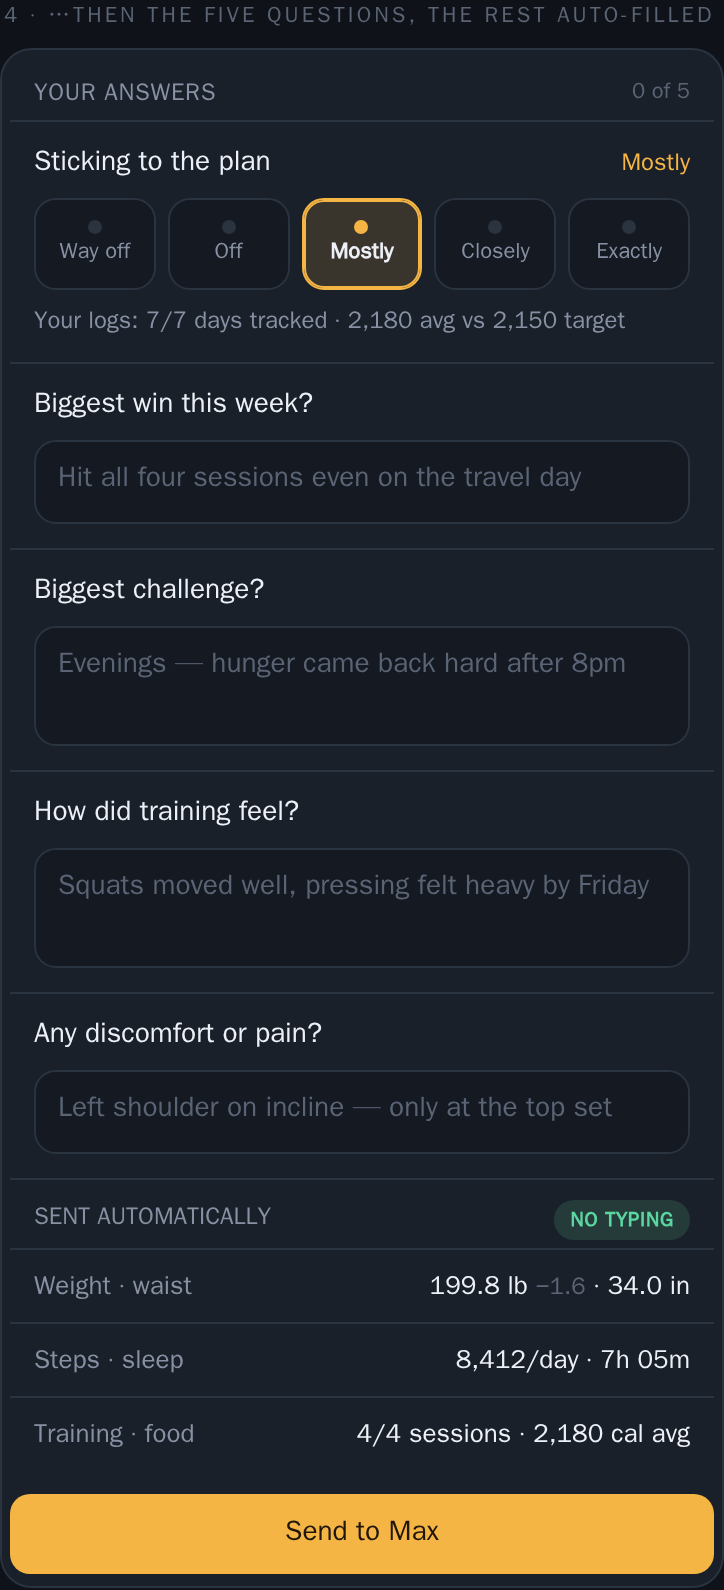
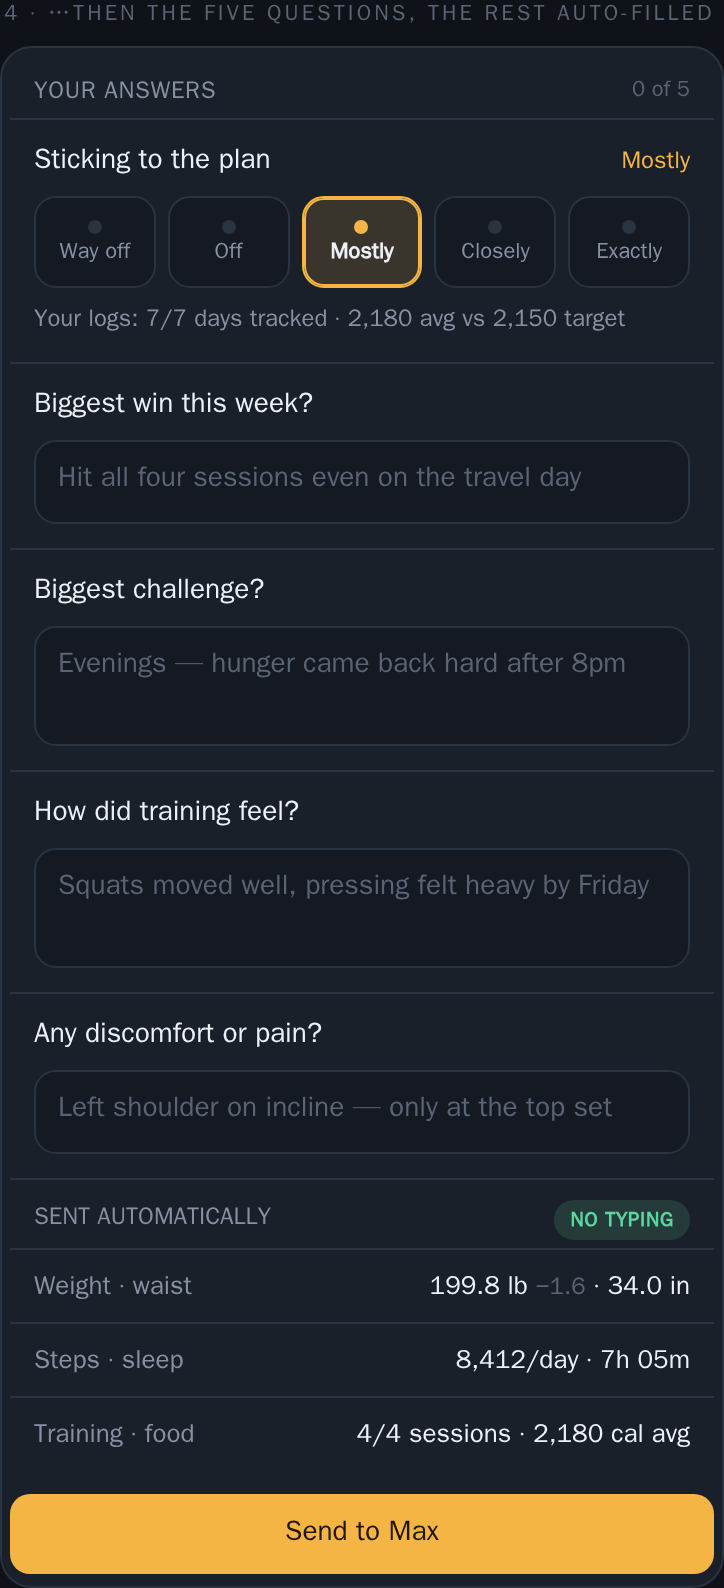
Weekly check-in: top-of-Home persistent card (replaces the photo prompt), escalating due states, explicit skip + confirm, editable after send, history on Progress, four poses
Claude-Session: https://claude.ai/code/session_013vTJLyt3fzzCxkgRaB7ajH

diff --git a/features/daily-subjective-ratings/mockups/v3.html b/features/daily-subjective-ratings/mockups/v3.html
@@ -1,0 +1,99 @@
+<!doctype html><html lang="en"><head><meta charset="utf-8">
+<meta name="viewport" content="width=device-width,initial-scale=1"><title>v3</title>
+<link rel="stylesheet" href="app.css">
+<style>
+body{background:var(--bg);color:var(--text);font-family:var(--sans);margin:0;padding:14px}
+.frame{max-width:420px;margin:0 auto 24px}
+.mocklabel{font-size:11px;letter-spacing:.14em;text-transform:uppercase;color:var(--faint);font-weight:700;margin:0 0 8px 2px}
+.wkcard{padding:14px}
+.wkrow{display:flex;align-items:center;gap:12px}
+.wkic{width:38px;height:38px;border-radius:11px;display:flex;align-items:center;justify-content:center;font-size:18px;flex:none}
+.due   .wkic{background:rgba(245,181,68,.16)}
+.late  .wkic{background:rgba(242,109,91,.16)}
+.donec .wkic{background:rgba(92,214,160,.16)}
+.wkt{flex:1;min-width:0}
+.wkt b{display:block;font-size:15px;font-weight:700}
+.wkt span{display:block;font-size:12.5px;margin-top:2px}
+.due   .wkt span{color:var(--accent);font-weight:700}
+.late  .wkt span{color:#F26D5B;font-weight:700}
+.donec .wkt span{color:var(--faint)}
+.chev{color:var(--faint);font-size:20px;font-weight:700;flex:none}
+.wkcard.due{border-color:var(--accent)}
+.wkcard.late{border-color:#F26D5B}
+.sub{font-size:12px;color:var(--faint);margin-top:9px;line-height:1.45}
+/* skip + confirm */
+.skiprow{border-top:1px solid var(--line);margin-top:14px;padding-top:12px;text-align:center}
+.skiplink{background:none;border:none;color:var(--faint);font-size:13px;font-family:var(--sans);
+  text-decoration:underline;text-underline-offset:3px;cursor:pointer;padding:6px}
+.confirm{background:var(--bg2);border:1px solid var(--line);border-radius:14px;padding:14px;margin-top:12px}
+.confirm b{display:block;font-size:14px;margin-bottom:5px}
+.confirm p{margin:0 0 12px;font-size:13px;color:var(--muted);line-height:1.5}
+.cbtns{display:flex;gap:8px}
+.cbtns .wl-btn{flex:1}
+/* history list */
+.hrow{display:flex;align-items:center;gap:11px;border-top:1px solid var(--line);padding:11px 2px}
+.hrow .hd{flex:1;min-width:0}
+.hrow .hd b{display:block;font-size:14px;font-weight:600}
+.hrow .hd span{display:block;font-size:12px;color:var(--faint);margin-top:2px}
+.tag{font-size:10px;font-weight:800;letter-spacing:.04em;text-transform:uppercase;padding:3px 8px;border-radius:99px;flex:none}
+.tsent{background:rgba(92,214,160,.15);color:#5CD6A0}
+.tskip{background:var(--bg2);color:var(--faint)}
+.edit{background:none;border:1px solid var(--line);border-radius:9px;color:var(--muted);font-size:12px;
+  font-family:var(--sans);padding:5px 10px;cursor:pointer;flex:none}
+</style></head><body>
+
+<div class="frame">
+  <p class="mocklabel">1 · Top of Home — where progress photos sits today</p>
+
+  <div class="wl-card wkcard due" style="margin-bottom:10px">
+    <div class="wkrow"><span class="wkic">📋</span><span class="wkt"><b>Weekly check-in</b><span>Due today · Monday</span></span><span class="chev">›</span></div>
+    <div class="sub">5 questions + this week’s 4 photos. Weight, steps, sleep, training, food and your daily ratings are already filled in.</div>
+  </div>
+
+  <div class="wl-card wkcard late" style="margin-bottom:10px">
+    <div class="wkrow"><span class="wkic">📋</span><span class="wkt"><b>Weekly check-in</b><span>Due yesterday</span></span><span class="chev">›</span></div>
+    <div class="sub">Still open — it stays here until you send or skip it.</div>
+  </div>
+
+  <div class="wl-card wkcard late" style="margin-bottom:10px">
+    <div class="wkrow"><span class="wkic">📋</span><span class="wkt"><b>Weekly check-in</b><span>Due Monday · 4 days late</span></span><span class="chev">›</span></div>
+    <div class="sub">Still open — it stays here until you send or skip it.</div>
+  </div>
+
+  <div class="wl-card wkcard late" style="margin-bottom:10px">
+    <div class="wkrow"><span class="wkic">📋</span><span class="wkt"><b>Weekly check-in</b><span>2 weeks open · Aug 4 and Jul 28</span></span><span class="chev">›</span></div>
+    <div class="sub">The newest week opens first; last week is underneath it.</div>
+  </div>
+
+  <div class="wl-card wkcard donec">
+    <div class="wkrow"><span class="wkic">✓</span><span class="wkt"><b>Weekly check-in</b><span>Sent Monday 8:12 AM · tap to edit</span></span><span class="chev">›</span></div>
+  </div>
+</div>
+
+<div class="frame">
+  <p class="mocklabel">2 · Bottom of the form — skip, and the confirm</p>
+  <div class="wl-card">
+    <div class="wl-card-head"><span>Weekly check-in</span><span class="wl-count">Aug 4</span></div>
+    <div class="sub" style="margin-top:2px">…biggest win, challenge, training, discomfort above…</div>
+    <button class="wl-btn wl-btn-primary wl-full" style="margin-top:14px">Send to Max</button>
+    <div class="skiprow"><button class="skiplink">Skip this week’s check-in</button></div>
+    <div class="confirm">
+      <b>Skip this check-in?</b>
+      <p>Nothing is sent to Max for the week of Aug 4 — no photos, no answers. Your daily logs still go through as normal. You can undo this until next Monday.</p>
+      <div class="cbtns"><button class="wl-btn wl-btn-ghost">Keep it open</button><button class="wl-btn wl-btn-danger">Skip the week</button></div>
+    </div>
+  </div>
+</div>
+
+<div class="frame">
+  <p class="mocklabel">3 · Progress tab — history, editable</p>
+  <div class="wl-card">
+    <div class="wl-card-head"><span>Weekly check-ins</span><span class="wl-count">last 6</span></div>
+    <div class="hrow"><span class="hd"><b>Aug 4</b><span>Sent 8:12 AM · 5 answers · 4 photos</span></span><span class="tag tsent">Sent</span><button class="edit">Edit</button></div>
+    <div class="hrow"><span class="hd"><b>Jul 28</b><span>Sent Tue 7:40 PM · 4 answers · 4 photos</span></span><span class="tag tsent">Sent</span><button class="edit">Edit</button></div>
+    <div class="hrow"><span class="hd"><b>Jul 21</b><span>Skipped — travel week</span></span><span class="tag tskip">Skipped</span><button class="edit">Open</button></div>
+    <div class="hrow"><span class="hd"><b>Jul 14</b><span>Sent 9:02 AM · 5 answers · 4 photos</span></span><span class="tag tsent">Sent</span><button class="edit">Edit</button></div>
+    <div class="wl-hint" style="margin-top:10px">Editing re-sends the corrected form and marks it updated for Max — the original stays in the record.</div>
+  </div>
+</div>
+</body></html>

diff --git a/features/daily-subjective-ratings/SPEC.md b/features/daily-subjective-ratings/SPEC.md
@@ -149,21 +149,56 @@ of those answers; the athlete should never retype them. This feature adds
 the missing piece: **a form for the questions only the athlete can answer**,
 with everything else auto-filled.
 
-## Entry point
+## Entry point — top of Home, NOT the daily check-in card
 
-A **Weekly check-in** button inside the daily check-in card, shown on the
-check-in day (default Sunday; follows the week-start setting). Accent
-outline so it reads as distinct from "Complete today" without competing
-with it. Subtitle states the deal plainly: "5 questions + photos · the rest
-is filled in".
+**Owner correction (2026-08-03):** the prompt does not live inside the
+daily check-in card. It takes the slot at the TOP of Home currently held
+by the "This Week's Progress Photos" card (`view_overview`, the `_ciDay`
+branch) and REPLACES it — the photos are captured inside the check-in now.
+
+- Appears on the athlete's check-in day. **Griffin's day is Monday**
+  (currently derived from the week-start setting; needs its own setting if
+  the two should differ).
+- **Persistent until resolved.** It does not disappear at midnight. The
+  status line escalates, in the Owner's own words:
+  `Due today · Monday` → `Due yesterday` → `Due Monday · 4 days late` →
+  `2 weeks open · Aug 4 and Jul 28` (newest week opens first, the older
+  one sits underneath).
+- Accent border while due, red border once late — the same visual grammar
+  the app already uses for attention vs problem.
+- Once sent: green check, `Sent Monday 8:12 AM · tap to edit`.
+
+## Skip — explicit, never assumed
+
+**Owner requirement:** a missed week is NOT a skip. Skipping is a
+deliberate act at the BOTTOM of the form ("Skip this week's check-in"),
+followed by a confirm that states exactly what it means: nothing is sent
+for that week, daily logs still flow, and it can be undone until the next
+check-in day. Only then is the week marked skipped and the card cleared.
+
+## Edit after sending
+
+**Owner requirement:** a sent check-in must be editable ("in case you mess
+up something"). Editing re-sends the corrected form and marks it updated
+for Max; the original stays in the record.
+
+## History — Progress tab
+
+The Owner was undecided ("summary or progress or something"). Recommended
+and mocked: a **Weekly check-ins** card on the **Progress** tab, listing
+recent weeks with their state (Sent / Skipped), answer and photo counts,
+and an Edit/Open action per row. This keeps it beside the ratings trend
+card, so everything coach-facing lives in one tab.
 
 ## The form
 
 1. **Trend bars first** — the same colour-bar block the Owner approved for
    the coach report: 14 days × six ratings, tallest = best, grey = not
    answered, with a direction tag per row.
-2. **This week's photos** — front / back / side capture tiles, reusing the
-   existing progress-photo store and week/pose model (1 of 3 style counter).
+2. **This week's photos** — **four** capture tiles: Front, Left, Right,
+   Back (Owner: "I want the four as we have done"), reusing the existing
+   progress-photo store and week/pose model (1 of 4 counter). This is why
+   the check-in replaces the photo prompt rather than sitting beside it.
 3. **Five questions**: plan adherence (5-choice, with the athlete's own
    logs shown underneath: "7/7 days tracked · 2,180 avg vs 2,150 target"),
    biggest win, biggest challenge, how training felt, any discomfort/pain.
